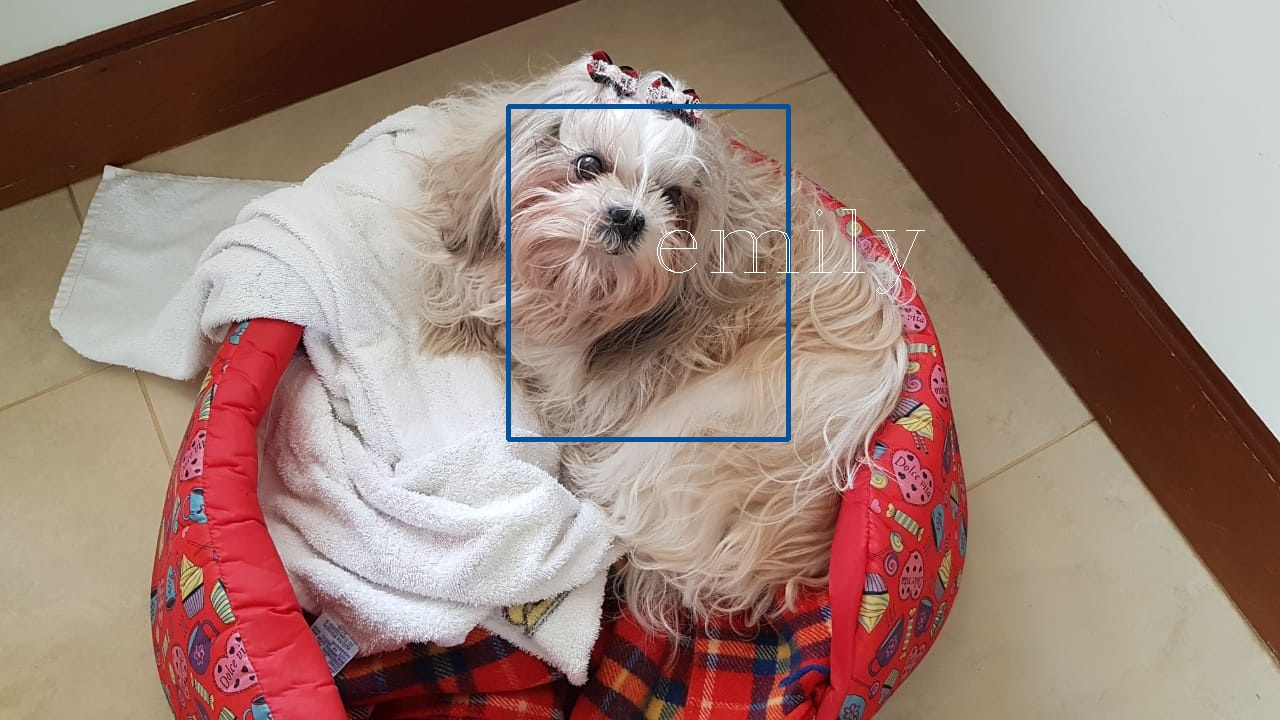
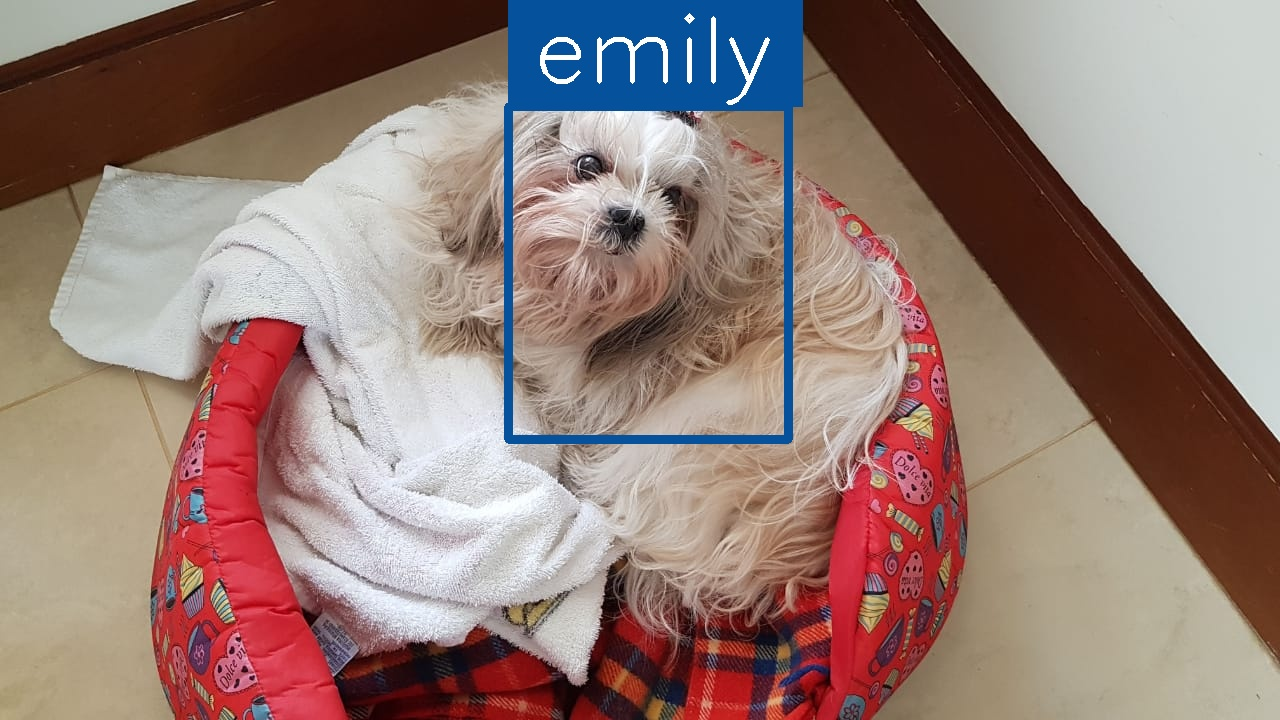
Changed rectangle and text style

Changed region(s): [[0.375, 0.0, 0.625, 0.6417]]

diff --git a/Yolo.py b/Yolo.py
@@ -21,10 +21,25 @@ class Yolo():
         for cat, score, bounds in results:
             x, y, w, h = bounds
             if cat.decode("utf-8") == "pinga":
-                cv2.rectangle(frame, (int(x-w/2),int(y-h/2)),(int(x+w/2),int(y+h/2)), self.pinga_color, 3)
+                cv2.rectangle(frame, (int(x-w/2),int(y-h/2)),(int(x+w/2),int(y+h/2)), self.pinga_color, 8)
+                self.text_with_background(frame, self.pinga_color, "pinga", bounds)
             elif cat.decode("utf-8") == "emily":
-                cv2.rectangle(frame, (int(x-w/2),int(y-h/2)),(int(x+w/2),int(y+h/2)), self.emily_color, 3)
-            cv2.putText(frame, str(cat.decode("utf-8")), (int(x),int(y)),
-                        cv2.FONT_HERSHEY_COMPLEX, 3, (255,255,255))
+                cv2.rectangle(frame, (int(x-w/2),int(y-h/2)),(int(x+w/2),int(y+h/2)), self.emily_color, 8)
+                self.text_with_background(frame, self.emily_color, "emily", bounds)
+        
 
         return frame
+
+    def text_with_background(self, img, rectangle_bgr, text, bounds):
+        font = cv2.FONT_HERSHEY_SIMPLEX 
+        font_scale = 3
+        x, y, w, h = bounds
+        # get the width and height of the text box
+        (text_width, text_height) = cv2.getTextSize(text, font, font_scale, thickness=4)[0]
+        # set the text start position
+        text_offset_x = int(x-w/2) 
+        text_offset_y = int(y-h/2)
+        # make the coords of the box with a small padding of two pixels
+        box_coords = ((text_offset_x, text_offset_y), (text_offset_x + text_width + 50, text_offset_y - text_height - 50))
+        cv2.rectangle(img, box_coords[0], box_coords[1], rectangle_bgr, cv2.FILLED)
+        cv2.putText(img, text, (text_offset_x+25, text_offset_y-25), font, font_scale, color=(255, 255, 255), thickness=3)

diff --git a/README.md b/README.md
@@ -8,7 +8,7 @@ Now it is only working with images using the file demo.py
 
 The images used for training are on the folder darknet_files, as well as the files needed for a new training.
 
-A tutorial for how to use them can be found at [AlexyAB repo](https://github.com/AlexeyAB/darknet).
+A tutorial on how to use them can be found at [AlexyAB repo](https://github.com/AlexeyAB/darknet).
 
 ## Testing
 
